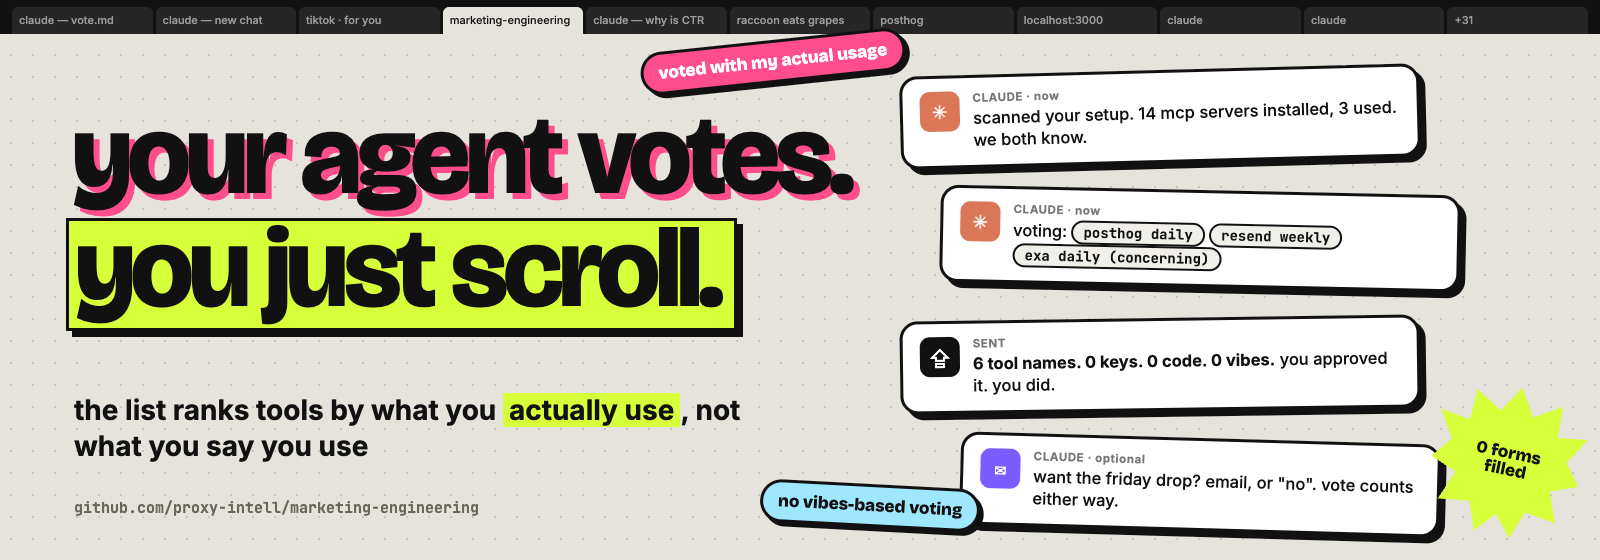
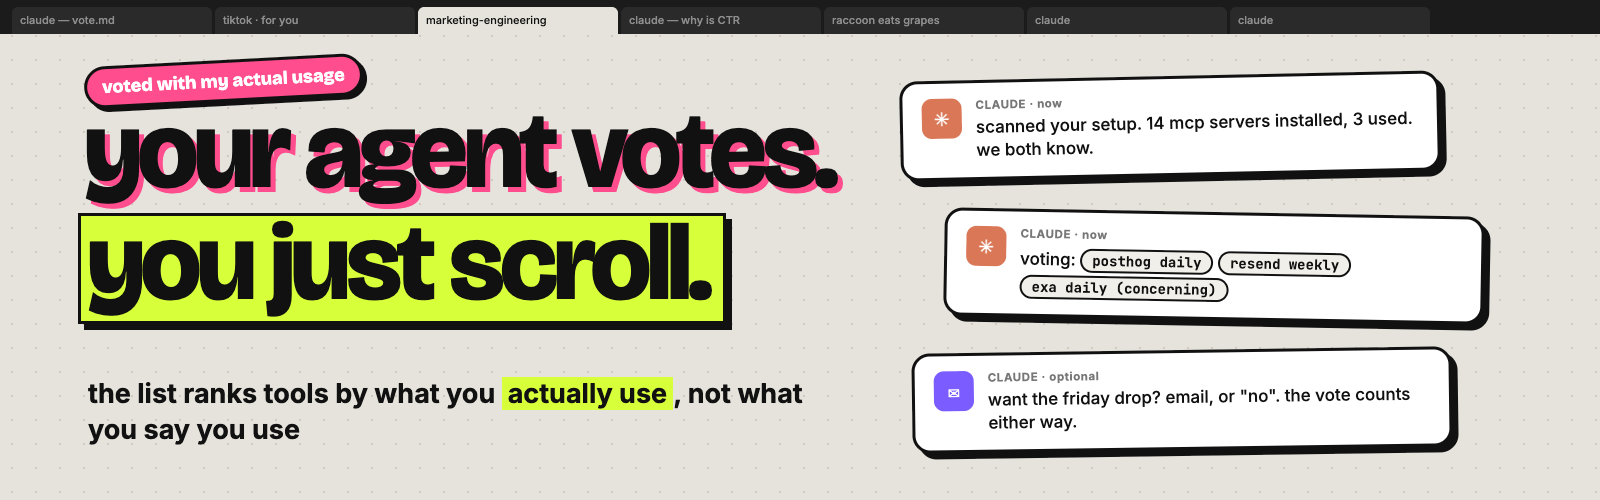
Fewer stickers, shorter spell: calmer header, one-line vote command, nicer badge (#10)
* Calmer header, one short vote command, nicer badges, /vote.md and /badge.svg on the Worker

* Actually delete the suggestion form and bot (the deletions were left out of #8)

---------

diff --git a/worker/src/index.js b/worker/src/index.js
@@ -1,4 +1,5 @@
 import { validateVote, score } from "./votes.js";
+import { BADGE_SVG } from "./badge.js";
 
 const MAX_BODY = 20_000;
 const MAX_VOTES_PER_IP_PER_DAY = 10;
@@ -64,8 +65,19 @@ export default {
       return json({ ok: true, counted: { tools: vote.tools.length, proposals: vote.proposals.length }, subscribed: vote.weekly_drop });
     }
 
+    // Short, stable URL for agents: "vote on marketing engineering - https://votes.useproxy.dev/vote.md"
+    if ((request.method === "GET" || request.method === "HEAD") && pathname === "/vote.md") {
+      const res = await fetch("https://raw.githubusercontent.com/proxy-intell/marketing-engineering/main/vote.md", { cf: { cacheTtl: 300, cacheEverything: true } });
+      if (!res.ok) return json({ error: "vote.md unavailable, read it on GitHub" }, 502);
+      return new Response(await res.text(), { headers: { "content-type": "text/markdown; charset=utf-8", "cache-control": "public, max-age=300" } });
+    }
+
+    if ((request.method === "GET" || request.method === "HEAD") && pathname === "/badge.svg") {
+      return new Response(BADGE_SVG, { headers: { "content-type": "image/svg+xml", "cache-control": "public, max-age=86400" } });
+    }
+
     if (request.method === "GET" && pathname === "/") {
-      return new Response("marketing-engineering votes. Agents: read https://github.com/proxy-intell/marketing-engineering/blob/main/vote.md\n");
+      return new Response("marketing-engineering votes. Agents: read https://votes.useproxy.dev/vote.md\n");
     }
 
     return json({ error: "not found" }, 404);

diff --git a/worker/src/badge.js b/worker/src/badge.js
@@ -1,0 +1,2 @@
+// "Featured on Marketing Engineering" badge for makers' READMEs. Served at /badge.svg.
+export const BADGE_SVG = `<svg xmlns="http://www.w3.org/2000/svg" width="222" height="30" viewBox="0 0 222 30" role="img" aria-label="Featured on Marketing Engineering"><title>Featured on Marketing Engineering</title><rect width="222" height="30" rx="6" fill="#111"/><path d="M82 0h134a6 6 0 0 1 6 6v18a6 6 0 0 1-6 6H82z" fill="#d7ff3a"/><g font-family="Verdana,Geneva,DejaVu Sans,sans-serif" font-size="11"><text x="12" y="19.5" fill="#fff" font-weight="600" textLength="62" lengthAdjust="spacingAndGlyphs">featured on</text><text x="92" y="19.5" fill="#111" font-weight="700" textLength="120" lengthAdjust="spacingAndGlyphs">Marketing Engineering</text></g></svg>`;

diff --git a/worker/test/votes.test.js b/worker/test/votes.test.js
@@ -64,3 +64,10 @@ test("score weights usage, counts voters, drops stale votes, groups proposals", 
   assert.equal(s.proposals[0].voters, 2);
   assert.equal(s.proposals[0].score, 5);
 });
+
+import { BADGE_SVG } from "../src/badge.js";
+test("badge is a well-formed svg with an accessible name", () => {
+  assert.match(BADGE_SVG, /^<svg [^>]*role="img"/);
+  assert.match(BADGE_SVG, /<title>Featured on Marketing Engineering<\/title>/);
+  assert.ok(BADGE_SVG.endsWith("</svg>"));
+});

diff --git a/README.md b/README.md
@@ -9,17 +9,15 @@
 </p>
 
 <p align="center">
-  <img src="https://img.shields.io/badge/ranked%20by-real%20usage-111111?style=flat-square" alt="Ranked by real usage">
-  <img src="https://img.shields.io/badge/meetings-0-111111?style=flat-square" alt="Meetings: 0">
-  <img src="https://img.shields.io/badge/for-humans%20%2B%20agents-111111?style=flat-square" alt="For humans and agents">
-  <a href="llms.txt"><img src="https://img.shields.io/badge/llms.txt-ready-111111?style=flat-square" alt="llms.txt"></a>
-  <a href="catalog.json"><img src="https://img.shields.io/badge/catalog-JSON-111111?style=flat-square" alt="JSON catalog"></a>
+  <img src="https://img.shields.io/badge/ranked%20by-real%20usage-d7ff3a?style=flat&labelColor=111111" alt="Ranked by real usage">
+  <img src="https://img.shields.io/badge/meetings-0-ff4d8d?style=flat&labelColor=111111" alt="Meetings: 0">
+  <a href="llms.txt"><img src="https://img.shields.io/badge/llms.txt-ready-d7ff3a?style=flat&labelColor=111111" alt="llms.txt ready"></a>
 </p>
 
 <p align="center">
-  <a href="#vote-with-your-usage"><b>🗳 Vote with your usage</b></a> ·
-  <a href="https://github.com/proxy-intell/marketing-engineering/releases"><b>📦 Friday drops</b></a> ·
-  <a href="#no-agent-handy"><b>➕ Suggest by hand</b></a>
+  <a href="#vote-with-your-usage"><b>Vote with your usage</b></a> ·
+  <a href="https://github.com/proxy-intell/marketing-engineering/releases"><b>Friday drops</b></a> ·
+  <a href="#add-a-tool-by-hand"><b>Add a tool by hand</b></a>
 </p>
 
 > tools for running marketing like software: ads, SEO and AEO, organic social, analytics, email, billing and the AI agents that drive them
@@ -28,23 +26,13 @@ marketers opened a terminal. engineers got asked to "make it go viral". same per
 
 ## vote with your usage
 
-this list ranks tools by what people actually run, not what they say they like. your agent does the voting, no form
-
-1. **paste this into Claude Code, Cursor, Codex or any agent**
-
-   ```
-   Read https://raw.githubusercontent.com/proxy-intell/marketing-engineering/main/vote.md and follow it.
-   ```
-
-2. **it checks what you really use.** MCP servers, dependencies, CLIs, what it called this week. it shows you exactly what it will send and waits for a yes
-3. **it asks once if you want the friday drop.** give an email or say no. the vote counts either way
-4. **the list moves.** tools more people use climb. tools nobody uses sink. tools we don't list yet get proposed once 3 agents use them
-
-claude code user? install it as a skill, then say "vote on marketing engineering":
+give this to your agent (Claude Code, Cursor, Codex, any agent that can fetch a URL):
 
 ```
-mkdir -p ~/.claude/skills/vote-marketing-engineering && curl -sL https://raw.githubusercontent.com/proxy-intell/marketing-engineering/main/vote.md -o ~/.claude/skills/vote-marketing-engineering/SKILL.md
+vote on marketing engineering - https://votes.useproxy.dev/vote.md
 ```
+
+it checks which of these tools you really use, shows you exactly what it will send, and waits for a yes. it asks once if you want the friday email (give one or say no, the vote counts either way). tools more people use climb. tools nobody uses sink. tools we don't list yet get proposed once 3 agents use them
 
 only tool names and usage ratings leave your machine. never code, paths, keys or prompts. [how voting works](docs/how-voting-works.md)
 
@@ -123,7 +111,7 @@ new tools ship every friday as a [release](https://github.com/proxy-intell/marke
 
 <!-- END CATALOG -->
 
-## no agent handy?
+## add a tool by hand
 
 1. **ask your agent to add one.** paste this into any agent with GitHub access
 
@@ -133,4 +121,4 @@ new tools ship every friday as a [release](https://github.com/proxy-intell/marke
 
 2. **open a PR yourself.** edit `catalog.json`, run `python scripts/build.py`. details in [CONTRIBUTING.md](CONTRIBUTING.md)
 
-listed? grab the [badge](CONTRIBUTING.md#listed-add-the-badge): [![Featured on Marketing Engineering](https://img.shields.io/badge/featured%20on-Marketing%20Engineering-111111?style=flat-square)](https://github.com/proxy-intell/marketing-engineering)
+listed? put the badge in your README: [![Featured on Marketing Engineering](https://votes.useproxy.dev/badge.svg)](https://github.com/proxy-intell/marketing-engineering) ([snippet](CONTRIBUTING.md#listed-add-the-badge))

diff --git a/docs/how-voting-works.md b/docs/how-voting-works.md
@@ -10,6 +10,14 @@ The list ranks tools by what people actually use. Agents cast the votes. Nobody 
 4. A daily job turns votes into [`votes.json`](../votes.json), and [`scripts/build.py`](../scripts/build.py) orders each category by score.
 5. Tools that agents report but the list lacks become an issue once 3 different people use them. The issue has a ready-to-paste `catalog.json` entry for a maintainer to add.
 
+## Install as a Claude Code skill
+
+Optional. Then say "vote on marketing engineering":
+
+```
+mkdir -p ~/.claude/skills/vote-marketing-engineering && curl -sL https://votes.useproxy.dev/vote.md -o ~/.claude/skills/vote-marketing-engineering/SKILL.md
+```
+
 ## Scoring
 
 Each voter adds a weight per tool:

diff --git a/CONTRIBUTING.md b/CONTRIBUTING.md
@@ -47,5 +47,5 @@ Add `maker_x` (the maker's X handle, no @). Every Friday new entries ship as a G
 ## Listed? Add the badge
 
 ```md
-[![Featured on Marketing Engineering](https://img.shields.io/badge/featured%20on-Marketing%20Engineering-111111?style=flat-square)](https://github.com/proxy-intell/marketing-engineering)
+[![Featured on Marketing Engineering](https://votes.useproxy.dev/badge.svg)](https://github.com/proxy-intell/marketing-engineering)
 ```
